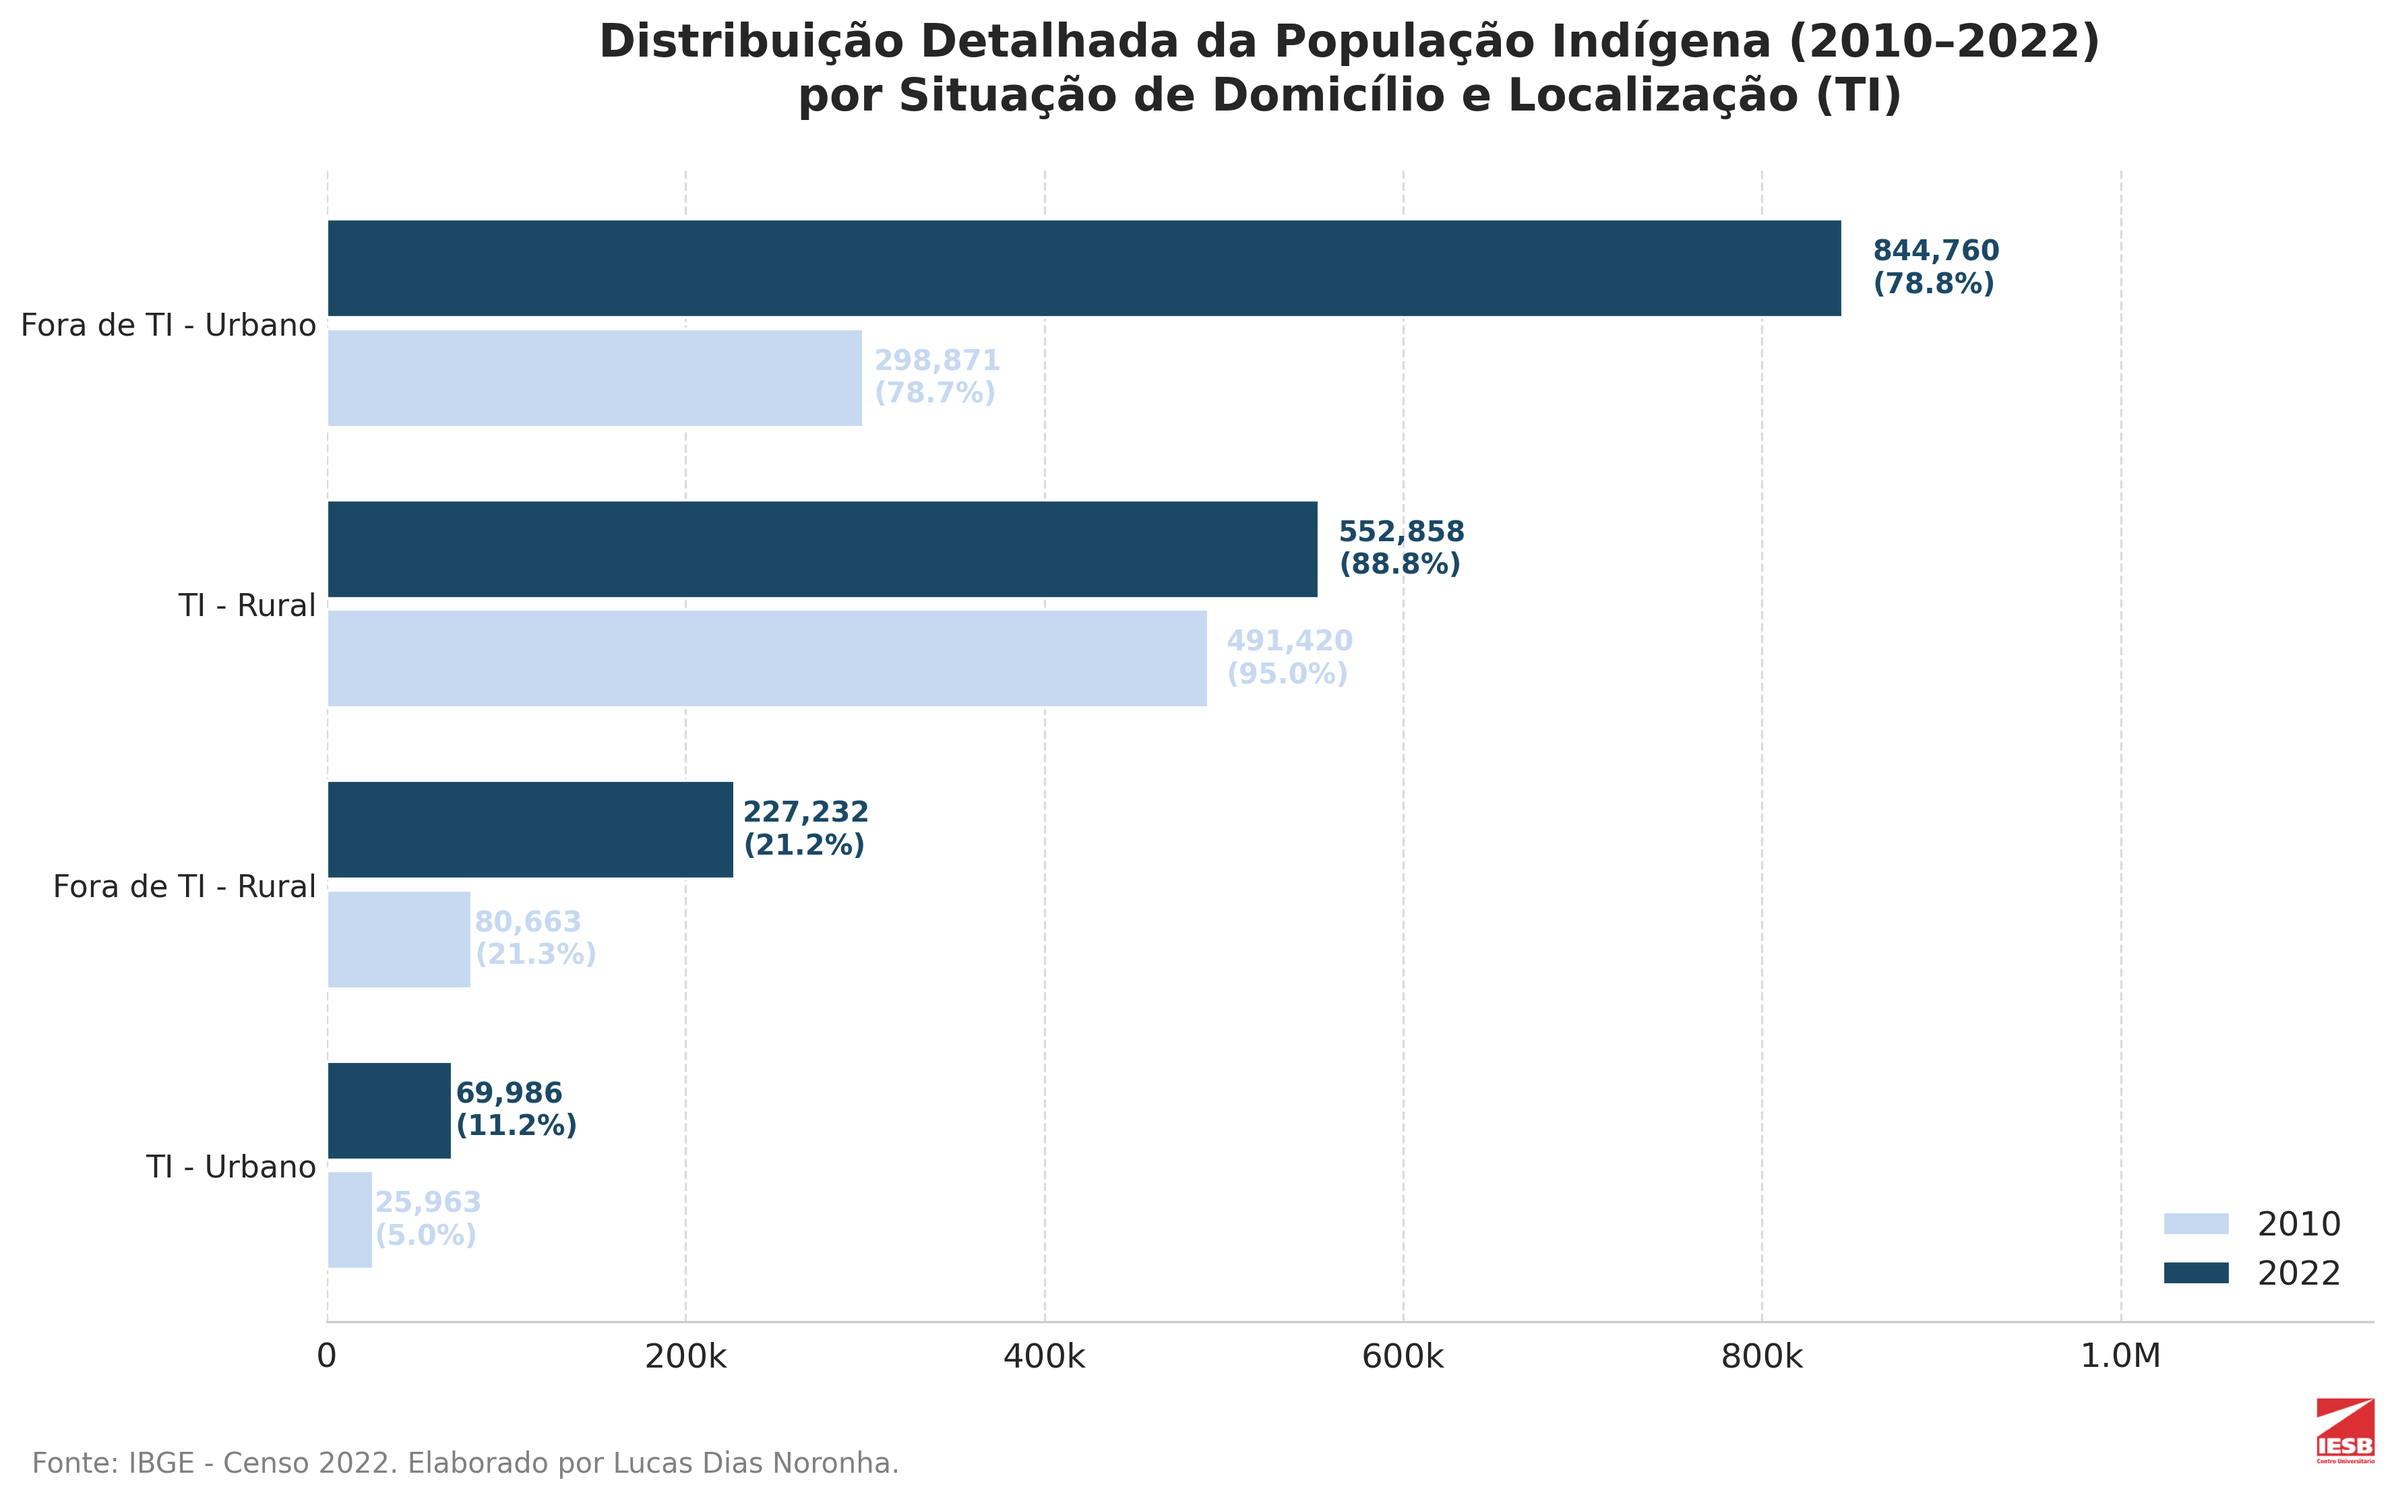
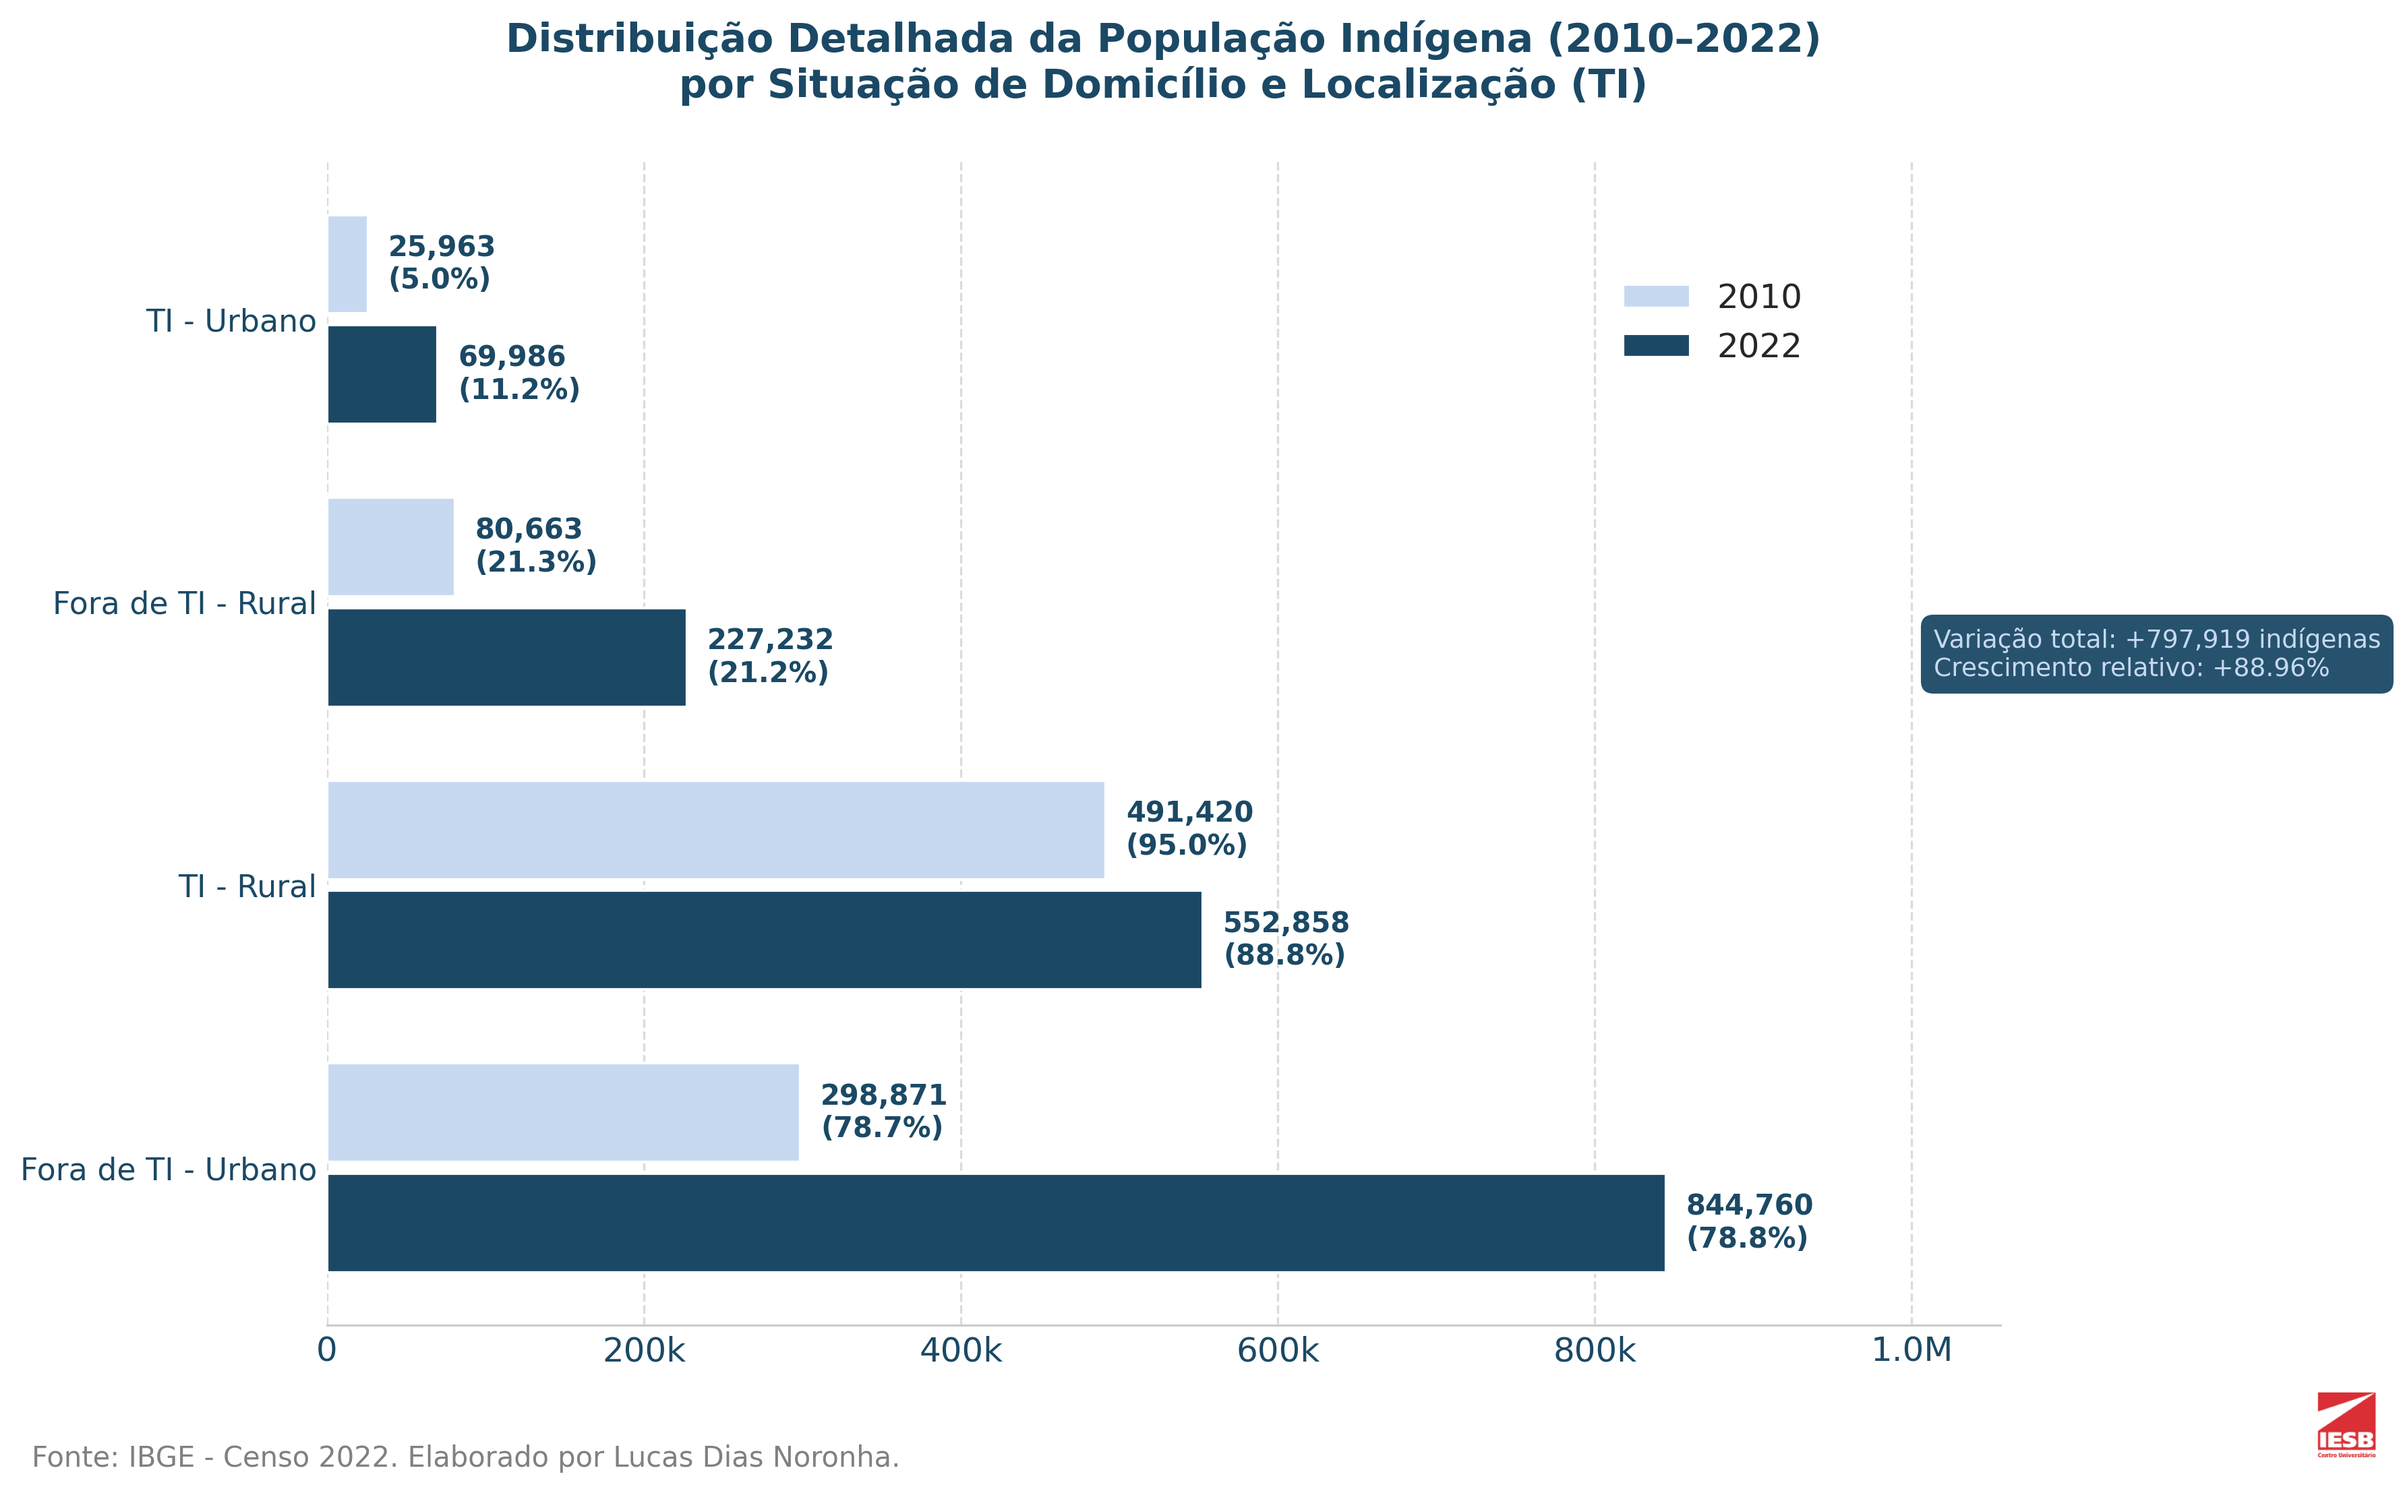
Update project: notebook 03 and src.

diff --git a/src/visualization/bar.py b/src/visualization/bar.py
@@ -202,113 +202,191 @@ class PlotBar:
                         dpi=300, bbox_inches='tight')
             plt.show()
 
-    # -------------------------------------------------------
-def plot_distribuicao_detalhada_ti(self):
-    db_pais = self.db[self.db['Localidade'] == 'Brasil']
+    def plot_distribuicao_detalhada_ti(self):
 
-    categorias = ['TI - Rural', 'Fora de TI - Urbano', 'Fora de TI - Rural', 'TI - Urbano']
+        db_pais = self.db[self.db['Localidade'] == 'Brasil']
 
-    val_2010 = [
-        db_pais['Indígenas 2010 TI Rural'].values[0],
-        db_pais['Indígenas 2010 Fora TI Urbano'].values[0],
-        db_pais['Indígenas 2010 Fora TI Rural'].values[0],
-        db_pais['Indígenas 2010 TI Urbano'].values[0]
-    ]
+        categorias = [
+            'TI - Rural',
+            'Fora de TI - Urbano',
+            'Fora de TI - Rural',
+            'TI - Urbano'
+        ]
 
-    val_2022 = [
-        db_pais['Indígenas 2022 TI Rural'].values[0],
-        db_pais['Indígenas 2022 Fora TI Urbano'].values[0],
-        db_pais['Indígenas 2022 Fora TI Rural'].values[0],
-        db_pais['Indígenas 2022 TI Urbano'].values[0]
-    ]
+        val_2010 = [
+            db_pais['Indígenas 2010 TI Rural'].values[0],
+            db_pais['Indígenas 2010 Fora TI Urbano'].values[0],
+            db_pais['Indígenas 2010 Fora TI Rural'].values[0],
+            db_pais['Indígenas 2010 TI Urbano'].values[0]
+        ]
 
-    pct_2010 = [
-        db_pais['% Indígenas 2010 TI Rural'].values[0],
-        db_pais['% Indígenas 2010 Fora TI Urbano'].values[0],
-        db_pais['% Indígenas 2010 Fora TI Rural'].values[0],
-        db_pais['% Indígenas 2010 TI Urbano'].values[0]
-    ]
+        val_2022 = [
+            db_pais['Indígenas 2022 TI Rural'].values[0],
+            db_pais['Indígenas 2022 Fora TI Urbano'].values[0],
+            db_pais['Indígenas 2022 Fora TI Rural'].values[0],
+            db_pais['Indígenas 2022 TI Urbano'].values[0]
+        ]
 
-    pct_2022 = [
-        db_pais['% Indígenas 2022 TI Rural'].values[0],
-        db_pais['% Indígenas 2022 Fora TI Urbano'].values[0],
-        db_pais['% Indígenas 2022 Fora TI Rural'].values[0],
-        db_pais['% Indígenas 2022 TI Urbano'].values[0]
-    ]
+        pct_2010 = [
+            db_pais['% Indígenas 2010 TI Rural'].values[0],
+            db_pais['% Indígenas 2010 Fora TI Urbano'].values[0],
+            db_pais['% Indígenas 2010 Fora TI Rural'].values[0],
+            db_pais['% Indígenas 2010 TI Urbano'].values[0]
+        ]
 
-    # Ordenação opcional (mantém lógica original)
-    dados_ordenados = sorted(zip(categorias, val_2010, val_2022, pct_2010, pct_2022),
-                             key=lambda x: x[2], reverse=False)
-    categorias, val_2010, val_2022, pct_2010, pct_2022 = zip(*dados_ordenados)
+        pct_2022 = [
+            db_pais['% Indígenas 2022 TI Rural'].values[0],
+            db_pais['% Indígenas 2022 Fora TI Urbano'].values[0],
+            db_pais['% Indígenas 2022 Fora TI Rural'].values[0],
+            db_pais['% Indígenas 2022 TI Urbano'].values[0]
+        ]
 
-    fig, ax = plt.subplots(figsize=(12, 8))
-    y_pos = np.arange(len(categorias))
-    height = 0.35
-    gap = 0.02
+        # -------------------------------------------------------
+        # Ordenação por valores de 2022
+        # -------------------------------------------------------
+        dados_ordenados = sorted(
+            zip(categorias, val_2010, val_2022, pct_2010, pct_2022),
+            key=lambda x: x[2]
+        )
 
-    # Barras horizontais
-    bars_2010 = ax.barh(y_pos - height/2 - gap, val_2010, height, color=self.cor[0], label='2010')
-    bars_2022 = ax.barh(y_pos + height/2 + gap, val_2022, height, color=self.cor[1], label='2022')
+        categorias, val_2010, val_2022, pct_2010, pct_2022 = zip(*dados_ordenados)
 
-    # --- Função auxiliar para contraste automático do texto ---
-    import matplotlib.colors as mcolors
-    def cor_texto_contraste(cor_rgb):
-        r, g, b = mcolors.to_rgb(cor_rgb)
-        luminancia = 0.299*r + 0.587*g + 0.114*b
-        return 'black' if luminancia > 0.6 else 'white'
+        # -------------------------------------------------------
+        # Figura
+        # -------------------------------------------------------
+        fig, ax = plt.subplots(figsize=(12, 8))
 
-    # --- Rótulos internos com contraste invertido ---
-    for i in range(len(categorias)):
-        # 2010
-        cor_texto_2010 = cor_texto_contraste(self.cor[0])
-        ax.text(val_2010[i]*0.98, y_pos[i] - height/2 - gap,
-                f"{val_2010[i]:,.0f}\n({pct_2010[i]:.1f}%)",
-                ha='right', va='center', fontsize=10, color=cor_texto_2010, fontweight='bold')
-        # 2022
-        cor_texto_2022 = cor_texto_contraste(self.cor[1])
-        ax.text(val_2022[i]*0.98, y_pos[i] + height/2 + gap,
-                f"{val_2022[i]:,.0f}\n({pct_2022[i]:.1f}%)",
-                ha='right', va='center', fontsize=10, color=cor_texto_2022, fontweight='bold')
+        y_pos = np.arange(len(categorias))
+        height = 0.35
+        gap = 0.02
 
-    # --- Eixos e rótulos ---
-    ax.set_yticks(y_pos)
-    ax.set_yticklabels(categorias, fontsize=11)
-    ax.invert_yaxis()
+        bars_2010 = ax.barh(
+            y_pos - height/2 - gap,
+            val_2010,
+            height,
+            color=self.cor[0],
+            label='2010'
+        )
 
-    ax.set_title(
-        'Distribuição Detalhada da População Indígena (2010–2022)\n'
-        'por Situação de Domicílio e Localização (TI)',
-        fontsize=14, pad=25, color=self.cor[1], wrap=True
-    )
+        bars_2022 = ax.barh(
+            y_pos + height/2 + gap,
+            val_2022,
+            height,
+            color=self.cor[1],
+            label='2022'
+        )
 
-    ax.xaxis.set_major_formatter(ticker.FuncFormatter(self._formatter_milhoes))
-    ax.set_xlim(right=max(max(val_2010), max(val_2022)) * 1.35)
-    ax.legend(frameon=False, loc='lower right', bbox_to_anchor=(1, 0.1))
+        # -------------------------------------------------------
+        # Rótulos nas pontas das barras
+        # -------------------------------------------------------
+        max_val = max(max(val_2010), max(val_2022))
+        offset = max_val * 0.015  # deslocamento à direita
 
-    # --- Estilo gráfico ---
-    sns.despine(ax=ax, top=True, right=True, left=True, bottom=False)
-    ax.xaxis.grid(True, linestyle='--', alpha=0.7)
-    ax.yaxis.grid(False)
-    ax.tick_params(axis='x', length=0, labelcolor=self.cor[1])
-    ax.tick_params(axis='y', length=0, labelcolor=self.cor[1])
+        for i in range(len(categorias)):
 
-    # --- Pequenas caixas de resumo (opcional) ---
-    variacao_total = sum(val_2022) - sum(val_2010)
-    pct_variacao = (variacao_total / sum(val_2010)) * 100
-    texto_resumo = (
-        f"Variação total: {variacao_total:+,.0f} indígenas\n"
-        f"Crescimento relativo: {pct_variacao:+.2f}%"
-    )
+            texto_2010 = f"{val_2010[i]:,.0f}\n({pct_2010[i]:.1f}%)"
+            texto_2022 = f"{val_2022[i]:,.0f}\n({pct_2022[i]:.1f}%)"
 
-    ax.text(0.99, 0.85, texto_resumo, transform=ax.transAxes,
-            fontsize=9, ha='left', va='top', color=self.cor[0],
-            bbox=dict(boxstyle='round,pad=0.5', facecolor=self.cor[1],
-                      alpha=0.95, edgecolor='none'))
+            # 2010
+            ax.text(
+                val_2010[i] + offset,
+                y_pos[i] - height/2 - gap,
+                texto_2010,
+                ha='left',
+                va='center',
+                fontsize=10,
+                color=self.cor[1],
+                fontweight='bold'
+            )
 
-    # --- Finalização ---
-    self._adicionar_fonte()
-    self._adicionar_logo(fig)
-    plt.tight_layout(rect=[0, 0.05, 1, 0.93])
-    plt.savefig('../reports/figures/grafico_distribuicao_detalhada_indigena.png',
-                dpi=300, bbox_inches='tight')
-    plt.show()
+            # 2022
+            ax.text(
+                val_2022[i] + offset,
+                y_pos[i] + height/2 + gap,
+                texto_2022,
+                ha='left',
+                va='center',
+                fontsize=10,
+                color=self.cor[1],
+                fontweight='bold'
+            )
+
+        # -------------------------------------------------------
+        # Eixos e título
+        # -------------------------------------------------------
+        ax.set_yticks(y_pos)
+        ax.set_yticklabels(categorias, fontsize=11)
+        ax.invert_yaxis()
+
+        ax.set_title(
+            'Distribuição Detalhada da População Indígena (2010–2022)\n'
+            'por Situação de Domicílio e Localização (TI)',
+            fontsize=14,
+            pad=25,
+            color=self.cor[1],
+            wrap=True
+        )
+
+        ax.xaxis.set_major_formatter(
+            ticker.FuncFormatter(self._formatter_milhoes)
+        )
+
+        # margem para os rótulos externos
+        ax.set_xlim(right=max_val * 1.25)
+
+        ax.legend(frameon=False, loc='lower right', bbox_to_anchor=(0.9, 0.8))
+
+        # -------------------------------------------------------
+        # Estilo
+        # -------------------------------------------------------
+        sns.despine(ax=ax, top=True, right=True, left=True, bottom=False)
+
+        ax.xaxis.grid(True, linestyle='--', alpha=0.7)
+        ax.yaxis.grid(False)
+
+        ax.tick_params(axis='x', length=0, labelcolor=self.cor[1])
+        ax.tick_params(axis='y', length=0, labelcolor=self.cor[1])
+
+        # -------------------------------------------------------
+        # Caixa de resumo
+        # -------------------------------------------------------
+        variacao_total = sum(val_2022) - sum(val_2010)
+        pct_variacao = (variacao_total / sum(val_2010)) * 100
+
+        texto_resumo = (
+            f"Variação total: {variacao_total:+,.0f} indígenas\n"
+            f"Crescimento relativo: {pct_variacao:+.2f}%"
+        )
+
+        ax.text(
+            0.96,
+            0.60,
+            texto_resumo,
+            transform=ax.transAxes,
+            fontsize=9,
+            ha='left',
+            va='top',
+            color=self.cor[0],
+            bbox=dict(
+                boxstyle='round,pad=0.5',
+                facecolor=self.cor[1],
+                alpha=0.95,
+                edgecolor='none'
+            )
+        )
+
+        # -------------------------------------------------------
+        # Finalização
+        # -------------------------------------------------------
+        self._adicionar_fonte()
+        self._adicionar_logo(fig)
+
+        plt.tight_layout(rect=[0, 0.05, 1, 0.93])
+
+        plt.savefig(
+            '../reports/figures/grafico_distribuicao_detalhada_indigena.png',
+            dpi=300,
+            bbox_inches='tight'
+        )
+
+        plt.show()
